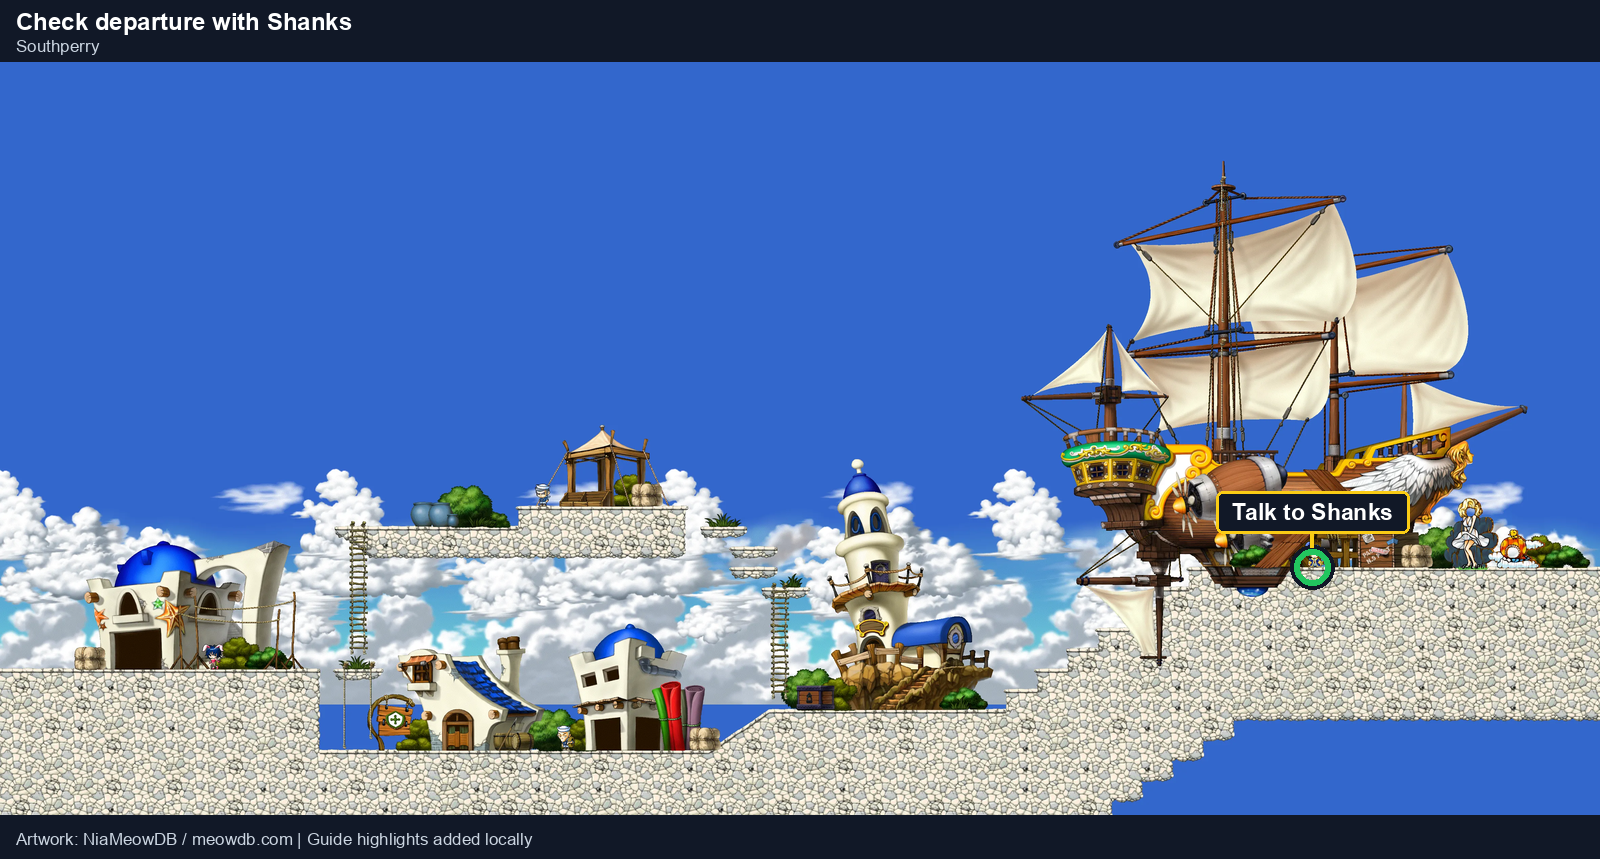
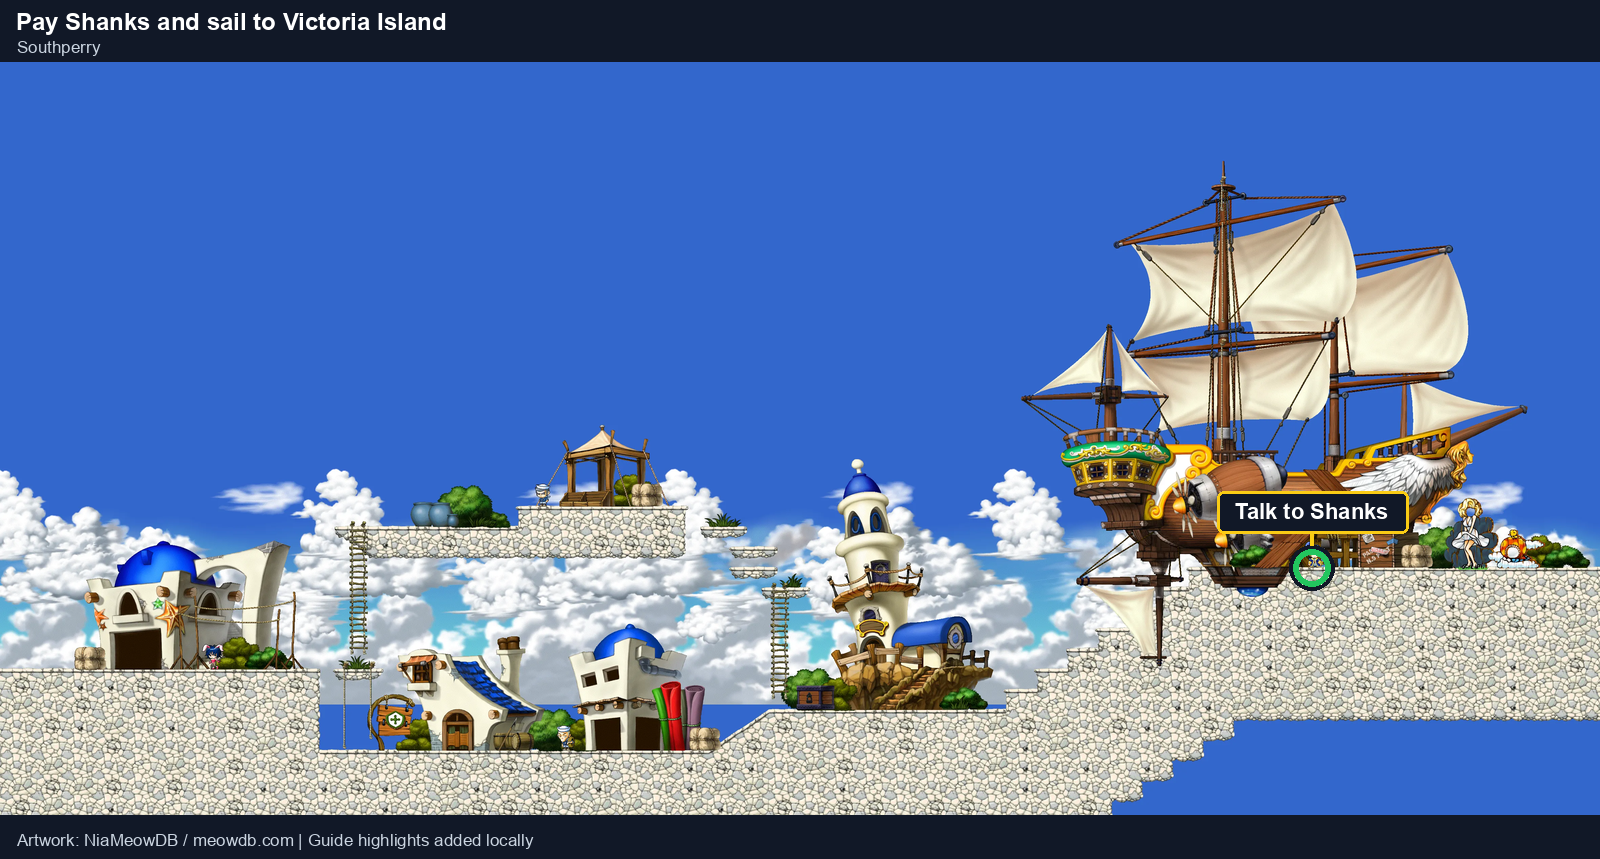
Add Pio and the ship to Lith Harbor; hand-off to Part 2

Changed region(s): [[0.0, 0.0, 0.2812, 0.0605], [0.0, 0.9686, 0.3438, 0.9988], [0.75, 0.5751, 0.875, 0.6054]]

diff --git a/index.html b/index.html
@@ -44,18 +44,19 @@ ol.steps{list-style:none;margin:0;padding:0 8px 8px}
 .before{color:#fde68a;font-size:.9rem;display:block}
 .info>summary{padding:10px 14px}
 .info .body{padding:0 16px 10px;color:#cbd5e1}
+.handoff{margin:24px 0;padding:16px 18px;border:2px solid var(--accent);border-radius:10px;background:#0f2233}.handoff h2{margin:0 0 6px;font-size:1.2rem}.handoff p{margin:0 0 10px;color:#cbd5e1}.next-link{display:inline-block;padding:6px 14px;border-radius:6px;background:var(--accent);color:#0b1220;font-weight:600;text-decoration:none}.next-link.pending{background:transparent;color:var(--muted);border:1px dashed var(--line);font-weight:400}
 .notice{margin-top:32px;border-top:1px solid var(--line);padding-top:12px;font-size:.8rem;color:var(--muted)}
 @media (max-width:600px){body{font-size:15px}.more{margin-left:0}}
 </style></head>
 <body data-guide="Maple Island — quest-and-grind route"><main>
-<h1>Maple Island — quest-and-grind route</h1><p class="status">Source-backed draft under review; not a measured minimum-time route.</p>
+<h1>Maple Island — quest-and-grind route</h1><p class="status">Part 1 of the leveling guide. Source-backed draft; not a measured minimum-time route.</p>
 <details class="panel info"><summary>About this guide</summary><div class="body">
 <p>Status: source-backed draft, not a measured fastest route. Scope is Maple Island only. Assumes a fresh solo Beginner starting at Roger, ordinary starter equipment, no funded items, party, XP boosts or teleport shortcuts. Job, target level, combat rates and live build remain unspecified. Endpoint is Southperry ready to depart, not a claimed time-to-level result.</p>
 <p>Source: NiaMeowDB&#x27;s Maple Island index. Map pages warn that values are from the second closed test and live-launch comparison is in progress. Confirm quest availability and objectives in your client.</p>
 <p>Follow the route in order. Included quests are instructions, not choices. Skipped quests and rejected hunting maps are listed at the end with the reason each was rejected. These decisions are provisional until timed comparisons confirm or change them.</p>
 <p>Reading the images: green circles mark the NPC to talk to; blue circles mark the portal to enter for that specific action. Each image shows your current map, not the destination. The two Mushroom Town maps are distinguished as Roger&#x27;s map and Nina&#x27;s map. Open this file in a Markdown preview; all images are local and work offline. Artwork is from NiaMeowDB; the instruction highlights were added locally.</p>
 </div></details>
-<div class="toolbar"><div class="bar" aria-hidden="true"><span></span></div><span id="total">0 / 28 steps</span><button id="next" type="button">Next step</button><button id="expand" type="button">Expand all</button><button id="collapse" type="button">Collapse all</button><button id="reset" type="button">Reset</button></div>
+<div class="toolbar"><div class="bar" aria-hidden="true"><span></span></div><span id="total">0 / 30 steps</span><button id="next" type="button">Next step</button><button id="expand" type="button">Expand all</button><button id="collapse" type="button">Collapse all</button><button id="reset" type="button">Reset</button></div>
 <details class="panel section" id="section-1"><summary><span>1. Roger — Mushroom Town, Roger&#x27;s map</span><span class="count">0 / 2</span></summary><ol class="steps">
 <li class="step"><div class="row"><input type="checkbox" id="step-roger-talk"><label for="step-roger-talk"><span class="title">Talk to Roger</span><span class="text">Accept Roger&#x27;s Apple, double-click Roger&#x27;s Apple in your Use inventory, then talk to Roger again to finish. It lists no quest XP.</span>
 </label></div><details class="more"><summary>Map, completion and why</summary><div class="body">
@@ -201,14 +202,31 @@ ol.steps{list-style:none;margin:0;padding:0 8px 8px}
 <p><span class="label">Sources:</span> <a href="https://meowdb.com/msclassic/maps/000001000">The Field West of Amherst</a> · <a href="https://meowdb.com/msclassic/quest-tracker/1010">Mai&#x27;s Final Training</a></p>
 </div></details></li>
 </ol></details>
-<details class="panel section" id="section-7"><summary><span>7. Lucas and Rain — Amherst</span><span class="count">0 / 2</span></summary><ol class="steps">
+<details class="panel section" id="section-7"><summary><span>7. Lucas, Pio and Rain — Amherst</span><span class="count">0 / 4</span></summary><ol class="steps">
 <li class="step"><div class="row"><input type="checkbox" id="step-lucas-delivery"><label for="step-lucas-delivery"><span class="title">Deliver to Lucas and accept his reply</span><span class="text">Give Maria&#x27;s Letter to Lucas to finish Letter for Lucas, then accept Lucas&#x27;s Reply. Lucas gives you Lucas&#x27;s Letter when you accept.</span>
 <span class="before">Before: Maria&#x27;s Letter in inventory.</span>
 </label></div><details class="more"><summary>Map, completion and why</summary><div class="body">
 <a href="assets/maps/lucas-delivery.png"><img loading="lazy" src="assets/maps/lucas-delivery.png" alt="Deliver to Lucas and accept his reply"></a>
 <p><span class="label">Complete when:</span> Letter for Lucas is complete, Lucas&#x27;s Reply is active and Lucas&#x27;s Letter is in your inventory.</p>
-<p><span class="label">Why:</span> You are in Amherst for Rain anyway, so the delivery adds dialogue but no travel. The reply is handed in to Maria on the way to Southperry.</p>
+<p><span class="label">Why:</span> You are in Amherst for Rain and Pio anyway, so the delivery adds dialogue but no travel. The reply is handed in to Maria on the way to Southperry.</p>
 <p><span class="label">Sources:</span> <a href="https://meowdb.com/msclassic/quest-tracker/1007">Letter for Lucas</a> · <a href="https://meowdb.com/msclassic/quest-tracker/1008">Lucas&#x27;s Reply</a></p>
+</div></details></li>
+<li class="step"><div class="row"><input type="checkbox" id="step-pio-accept"><label for="step-pio-accept"><span class="title">Accept Pio&#x27;s quest and break boxes</span><span class="text">Talk to Pio and accept Pio&#x27;s Collecting Recycled Goods. Then break the wooden boxes around Amherst (each takes about 4 hits) until you hold 2 Rusty Screws and 2 Old Wooden Boards, and pick them up.</span>
+<span class="before">Before: Level 5 or higher.</span>
+</label></div><details class="more"><summary>Map, completion and why</summary><div class="body">
+<a href="assets/maps/pio-accept.png"><img loading="lazy" src="assets/maps/pio-accept.png" alt="Accept Pio&#x27;s quest and break boxes"></a>
+<p><span class="label">Complete when:</span> You hold 2 Rusty Screws and 2 Old Wooden Boards with Pio&#x27;s quest active.</p>
+<p><span class="label">Why:</span> Pio&#x27;s 150 mesos plus Mai&#x27;s 150 make exactly the 300-meso ship fare. No other quest on the route pays mesos, and no shop is on the route. Amherst has 6 wooden boxes and you are already here for Lucas and Rain, so collecting needs no extra travel.</p>
+<p class="uncertainty"><span class="label">Unresolved:</span> Box drop chances and how often each box gives a screw versus a board are not published; MeowDB lists them only as community-seen drops. Boxes respawn about every 2 minutes and other players may break them first, so the collection time is unknown.</p>
+<p><span class="label">Sources:</span> <a href="https://meowdb.com/msclassic/quest-tracker/1012">Pio&#x27;s Collecting Recycled Goods</a> · <a href="https://meowdb.com/msclassic/breakables/0000001">Wooden Box</a></p>
+</div></details></li>
+<li class="step"><div class="row"><input type="checkbox" id="step-pio-turn-in"><label for="step-pio-turn-in"><span class="title">Hand in to Pio</span><span class="text">Hand the 2 Rusty Screws and 2 Old Wooden Boards to Pio for 100 quest XP, 150 mesos and The Green Relaxer chair.</span>
+<span class="before">Before: 2 Rusty Screws and 2 Old Wooden Boards.</span>
+</label></div><details class="more"><summary>Map, completion and why</summary><div class="body">
+<a href="assets/maps/pio-turn-in.png"><img loading="lazy" src="assets/maps/pio-turn-in.png" alt="Hand in to Pio"></a>
+<p><span class="label">Complete when:</span> Pio&#x27;s Collecting Recycled Goods shows as completed and you have Pio&#x27;s 150 mesos.</p>
+<p><span class="label">Why:</span> This completes the ship fare. The chair restores HP while you sit, which saves potion money on Victoria Island.</p>
+<p><span class="label">Sources:</span> <a href="https://meowdb.com/msclassic/quest-tracker/1012">Pio&#x27;s Collecting Recycled Goods</a></p>
 </div></details></li>
 <li class="step"><div class="row"><input type="checkbox" id="step-rain-quizzes"><label for="step-rain-quizzes"><span class="title">Complete Rain&#x27;s quizzes</span><span class="text">Complete Rain&#x27;s seven quizzes in order, 1 to 7, without leaving the map. They list 490 quest XP in total and have no monster objective.</span>
 <span class="before">Before: Level 5 or higher.</span>
@@ -250,34 +268,38 @@ ol.steps{list-style:none;margin:0;padding:0 8px 8px}
 <p><span class="label">Sources:</span> <a href="https://meowdb.com/msclassic/quest-tracker/1008">Lucas&#x27;s Reply</a></p>
 </div></details></li>
 </ol></details>
-<details class="panel section" id="section-9"><summary><span>9. Southperry</span><span class="count">0 / 2</span></summary><ol class="steps">
+<details class="panel section" id="section-9"><summary><span>9. Southperry — sail to Victoria Island</span><span class="count">0 / 2</span></summary><ol class="steps">
 <li class="step"><div class="row"><input type="checkbox" id="step-split-road-to-southperry"><label for="step-split-road-to-southperry"><span class="title">Lower exit to Southperry</span><span class="text">Take A Split Road&#x27;s highlighted lower exit to Southperry.</span>
 </label></div><details class="more"><summary>Map, completion and why</summary><div class="body">
 <a href="assets/maps/split-road-to-southperry.png"><img loading="lazy" src="assets/maps/split-road-to-southperry.png" alt="Lower exit to Southperry"></a>
 <p><span class="label">Complete when:</span> You arrive in Southperry.</p>
 <p><span class="label">Why:</span> Southperry is this draft&#x27;s endpoint and is one portal from A Split Road.</p>
 </div></details></li>
-<li class="step"><div class="row"><input type="checkbox" id="step-southperry-shanks"><label for="step-southperry-shanks"><span class="title">Find Shanks in Southperry</span><span class="text">Sell items no included quest still needs, then talk to Shanks to check departure requirements.</span>
+<li class="step"><div class="row"><input type="checkbox" id="step-southperry-shanks"><label for="step-southperry-shanks"><span class="title">Pay Shanks and sail to Victoria Island</span><span class="text">Talk to Shanks, pay 300 mesos and board the ship to Lith Harbor on Victoria Island. The trip is one-way, so this is the end of Maple Island.</span>
+<span class="before">Before: Level 7 or higher. At least 300 mesos (Mai&#x27;s 150 plus Pio&#x27;s 150). No Maple Island quest still active.</span>
 </label></div><details class="more"><summary>Map, completion and why</summary><div class="body">
-<a href="assets/maps/southperry-shanks.png"><img loading="lazy" src="assets/maps/southperry-shanks.png" alt="Find Shanks in Southperry"></a>
-<p><span class="label">Complete when:</span> You are talking to Shanks in Southperry with no included quest still active.</p>
-<p><span class="label">Why:</span> The ship from Southperry leaves the island. All included quests are closed by this point, so nothing remains for the island.</p>
-<p class="uncertainty"><span class="label">Unresolved:</span> This draft ends here, ready to arrange departure. Ship fare, eligibility, transport time and a job-specific departure level are not established. Do not treat the ship as free travel or this endpoint as a verified time-to-target-level result.</p>
+<a href="assets/maps/southperry-shanks.png"><img loading="lazy" src="assets/maps/southperry-shanks.png" alt="Pay Shanks and sail to Victoria Island"></a>
+<p><span class="label">Complete when:</span> You arrive in Lith Harbor on Victoria Island.</p>
+<p><span class="label">Why:</span> Victoria Island is where the next part of the guide starts. Every included island quest is already handed in, and the boat cannot bring you back.</p>
+<p class="uncertainty"><span class="label">Unresolved:</span> The level 7 requirement and 300-meso fare come from MeowDB&#x27;s beginner guide, not from Shanks&#x27;s own page. That guide disagrees with the quest pages on several rewards, so confirm both in the game. A third-party walkthrough reports Shanks giving 700 EXP on departure during the closed test; this is unverified and not counted here.</p>
+<p><span class="label">Sources:</span> <a href="https://meowdb.com/msclassic/npcs/15">Shanks</a> · <a href="https://meowdb.com/msclassic/guides/beginners-guide-first-steps-in-maple-world">Beginner&#x27;s guide (fare and level)</a></p>
 </div></details></li>
 </ol></details>
-<details class="panel info"><summary>Route decisions and skips (8)</summary><div class="body">
+<section class="handoff"><h2>Next: Part 2 — Lith Harbor to first job</h2><p>You arrive in Lith Harbor on Victoria Island at level 7 or higher. Part 2 will cover levels 7 to 10: the early Victoria Island quests and travel to your class&#x27;s job instructor for first job advancement at level 10. It is not written yet.</p><span class="next-link pending">Coming soon</span></section>
+<details class="panel info"><summary>Route decisions and skips (9)</summary><div class="body">
+<details class="more"><summary>Pio&#x27;s Collecting Recycled Goods is included to pay the ship fare</summary><div class="body"><p>The ship costs 300 mesos. Of all island quests, only Mai&#x27;s Final Training (150) and Pio (150) pay mesos, so Pio is the only guaranteed way to the fare without a shop detour. Monster meso drops and sale prices are not established, so skipping Pio cannot be shown to pay the fare. The cost is breaking Amherst&#x27;s wooden boxes for 2 screws and 2 boards, with unknown drop chances and competition from other players. The reward is 100 quest XP, 150 mesos and a healing chair. This replaces the earlier skip, which did not account for the fare.</p></div></details>
+<details class="more"><summary>Leave at level 7; do not grind to level 8 on the island</summary><div class="body"><p>Using MeowDB&#x27;s XP table and each monster&#x27;s listed EXP, the quest rewards and required kills alone take you to level 7 with about 134 XP left to level 8 (1,131 of 1,265). Level 7 is the ship&#x27;s stated requirement, so no extra grinding is needed to leave. The last 134 XP is about 9 Orange Mushrooms or 17 Red Snails at listed EXP, and the extra kills on the way usually cover part of it. Grinding here only helps if island monsters give more XP per minute than the first Victoria Island maps, which cannot be checked until that data is collected. A third-party walkthrough also reports Shanks granting 700 EXP on departure, which would put you at level 8 on arrival; this is unverified, so the route does not rely on it.</p></div></details>
 <details class="more"><summary>Mai&#x27;s Training is hunted on A Split Road, not on The Field West of Amherst</summary><div class="body"><p>Source counts on A Split Road: 17 Blue Snails (40.5%), 14 Shrooms (33.3%) and 11 Red Snails (26.2%). On The Field West of Amherst: 13 Blue Snails (19.7%), 17 Shrooms (25.8%) and 24 Red Snails (36.4%). Neither map has more of all three species. Training on A Split Road lets you turn in and accept Final Training before leaving. The travel from Mai&#x27;s first visit to Southperry is then Split Road, field, Amherst, field, Split Road, Southperry: 5 portal hops. Field training forces 7, because Final Training can only be accepted from Mai after the training is turned in. Field training wins only if its larger Shroom and Red Snail supply saves more hunting time than two extra field crossings cost. Neither time is measured, so this is the best found under equal-rate assumptions, not a proven minimum.</p></div></details>
 <details class="more"><summary>The Orange Mushroom is hunted on the field crossing, not in Dangerous Forest</summary><div class="body"><p>Dangerous Forest lists 12 Orange Mushrooms (35.3% of its monsters), against 5 (7.6%) on The Field West of Amherst. It is a side map of the field, so using it adds two portal hops (in and back out). Only one kill is needed. The forest wins only if finding one Orange Mushroom on the field takes longer than the round trip plus the search inside the forest. Neither time is measured, so the break-even is unknown. The route uses the field because it needs no extra travel, not because it is proven faster.</p></div></details>
 <details class="more"><summary>Skip the other side forests on the West Amherst field</summary><div class="body"><p>In a Small Forest, Hunting Ground Middle of the Forest I and Hunting Ground Middle of the Forest II each list fewer Blue Snails, Shrooms and Red Snails than A Split Road, and each costs two extra hops. Snail Garden lists more Blue Snails (19) and Mushroom Garden more Shrooms (23), but each lacks at least one training species. Using either means hunting on several maps plus a round trip. No source-count reason justifies these detours.</p></div></details>
-<details class="more"><summary>Skip Biggs&#x27;s Collection of Items</summary><div class="body"><p>Biggs (Southperry, level 3) asks for 10 Blue Snail Shells and 1 Orange Mushroom Cap. These are ordinary-item hand-ins, not kill counters. Mai&#x27;s training kills 10 Blue Snails and Final Training only 1 Orange Mushroom, and the drop rates are unknown, so the route as written does not ensure you hold these items. A guaranteed cap would mean hunting extra Orange Mushrooms for an unknown number of kills. It is also unresolved whether items collected before accepting Biggs&#x27;s quest count when you first accept it. An early pickup trip should not be assumed necessary, and the route does not schedule one. The quest lists 120 XP and a random Fruit Knife or Razor. Reconsider after testing in a compatible client: carry the drops to Southperry, accept, and try to turn in immediately.</p></div></details>
-<details class="more"><summary>Skip Pio&#x27;s Collecting Recycled Goods</summary><div class="body"><p>Pio (Amherst, level 5) asks for 2 Rusty Screws and 2 Old Wooden Boards. These are quest items from breakable boxes, and the box locations and drop chances are not in the retained snapshot. The quest lists 100 quest XP, 150 mesos and The Green Relaxer. The route does not send you to unidentified boxes for an unmeasured collection time.</p></div></details>
+<details class="more"><summary>Skip Biggs&#x27;s Collection of Items</summary><div class="body"><p>Biggs (Southperry, level 3) asks for 10 Blue Snail Shells and 1 Orange Mushroom Cap. These are ordinary-item hand-ins, not kill counters. Mai&#x27;s training kills 10 Blue Snails and Final Training only 1 Orange Mushroom, and the drop rates are unknown, so the route as written does not ensure you hold these items. A guaranteed cap would mean hunting extra Orange Mushrooms for an unknown number of kills. It is also unresolved whether items collected before accepting Biggs&#x27;s quest count when you first accept it. An early pickup trip should not be assumed necessary, and the route does not schedule one. The quest lists 120 XP and a random Fruit Knife or Razor. Reconsider after testing in a compatible client: carry the drops to Southperry, accept, and try to turn in immediately. Guaranteed XP already reaches level 7 for the ship without Biggs, and Biggs pays no mesos, so skipping him does not block departure.</p></div></details>
 <details class="more"><summary>Skip Heena and Sera&#x27;s mirror chain</summary><div class="body"><p>Borrowing Sera&#x27;s Mirror and Bringing a Mirror to Heena give 2 listed quest XP combined. They need a round trip through the other exit from Roger&#x27;s map (2 portal hops) plus four interactions. Skipping them is decided by the very small reward; the exact time cost is unmeasured.</p></div></details>
 <details class="more"><summary>Skip shopping and Amherst&#x27;s eastern branch</summary><div class="body"><p>No included quest needs a purchase, and no included quest is east of Amherst. Neither detour has a measured benefit. A combat or supply blocker would require revising the route, not silently claiming the detour is efficient.</p></div></details>
 <details class="more"><summary>Mainland quests shown under island monsters are excluded</summary><div class="body"><p>A matching monster does not make a mainland quest available on Maple Island.</p></div></details>
 </div></details><details class="panel info"><summary>Limitations</summary><div class="body"><ul>
-<li>All 25 maps in the island index were collected, and the source portal data reaches all 25 from Roger&#x27;s map. The prescribed route takes 13 portal hops from Roger&#x27;s map to Southperry; this count excludes walking within maps. Internal identifiers stay in the database and source manifests, not in player instructions or image labels.</li>
+<li>All 25 maps in the island index were collected, and the source portal data reaches all 25 from Roger&#x27;s map. The prescribed route takes 13 portal hops from Roger&#x27;s map to Southperry, then the one-way ship to Lith Harbor; this count excludes walking within maps. Internal identifiers stay in the database and source manifests, not in player instructions or image labels.</li>
 <li>Source monster counts are spawn-list supply figures (counts, wave spawn counts, total mob count and spawn records agree on every monster map). They are not verified live populations. Respawn behaviour and class-specific reach or kill speed on each map are deliberately not modelled yet. Map choices assume equal kill rates and layouts, so they are a ranking, not a timing.</li>
-<li>The route is replayed against the retained source data. The check covers quest prerequisites, level and job gates, giver and turn-in locations, kill credit only while a quest is active, and each directed portal. Levels are tracked only as floors set by the route&#x27;s level instructions, because the XP curve and kill XP are not modelled.</li>
+<li>The route is replayed against the retained source data. The check covers quest prerequisites, level and job gates, giver and turn-in locations, kill credit only while a quest is active, each directed portal, and the ship&#x27;s level, fare and no-active-quests rule. XP and mesos are tracked as guaranteed minimums: quest rewards plus the required kills only, using MeowDB&#x27;s XP table and monster EXP. Extra kills, drops and meso drops are not counted. On that basis you are level 7 when you board, about 134 XP short of level 8, with exactly the 300-meso fare.</li>
 <li>Unknown: travel, dialogue and kill times, drop rates, whether item hand-ins accept items collected before the quest, global kill-credit rules, and whether this second-closed-test data matches the live build. No measured minimum time, global optimum or fixed completion time is claimed.</li>
 </ul></div></details>
 <footer class="notice"><p>Unofficial fan guide. Not affiliated with, endorsed by or sponsored by Nexon Co., Ltd. or NiaMeowDB.</p><p>MapleStory names, text, map artwork and other game material are the property of Nexon Co., Ltd. They are used here for non-commercial fan reference and commentary. Rights holders can request removal by opening an issue on this site&#x27;s GitHub repository.</p><p>Map artwork was retrieved from NiaMeowDB (meowdb.com); the green and blue highlights, labels and headers were added for this guide. Quest, map and monster facts are from NiaMeowDB and are linked to their source pages throughout; that data is labelled as second closed test values.</p><p>Your checkbox progress is saved only in this browser (localStorage) and is never sent anywhere.</p></footer>
